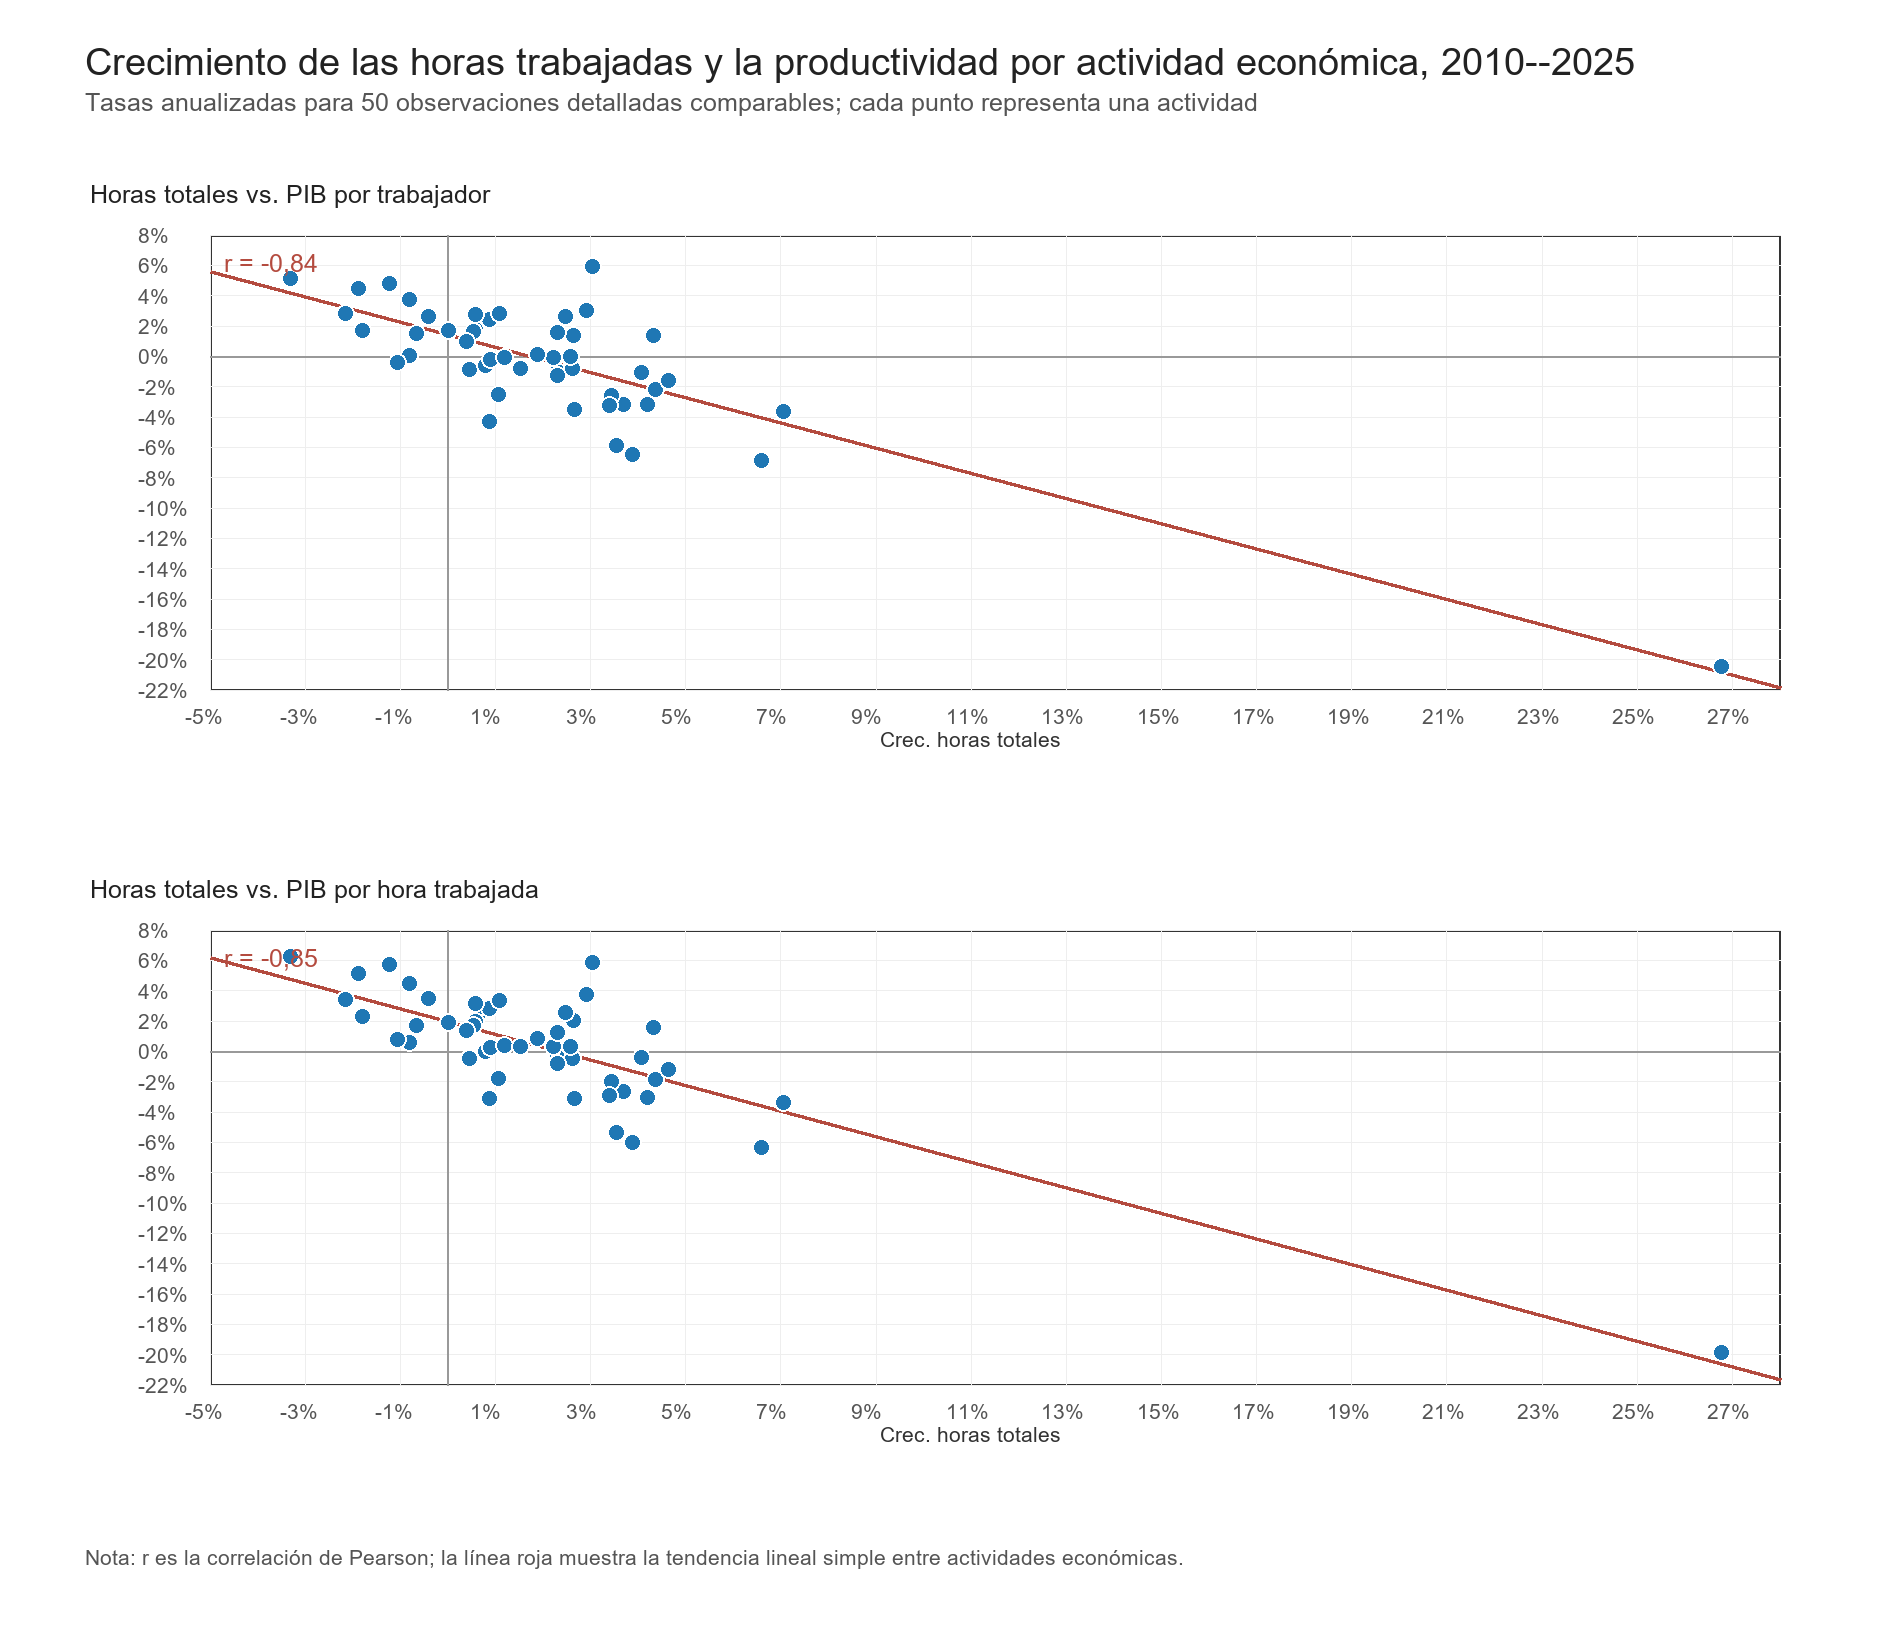
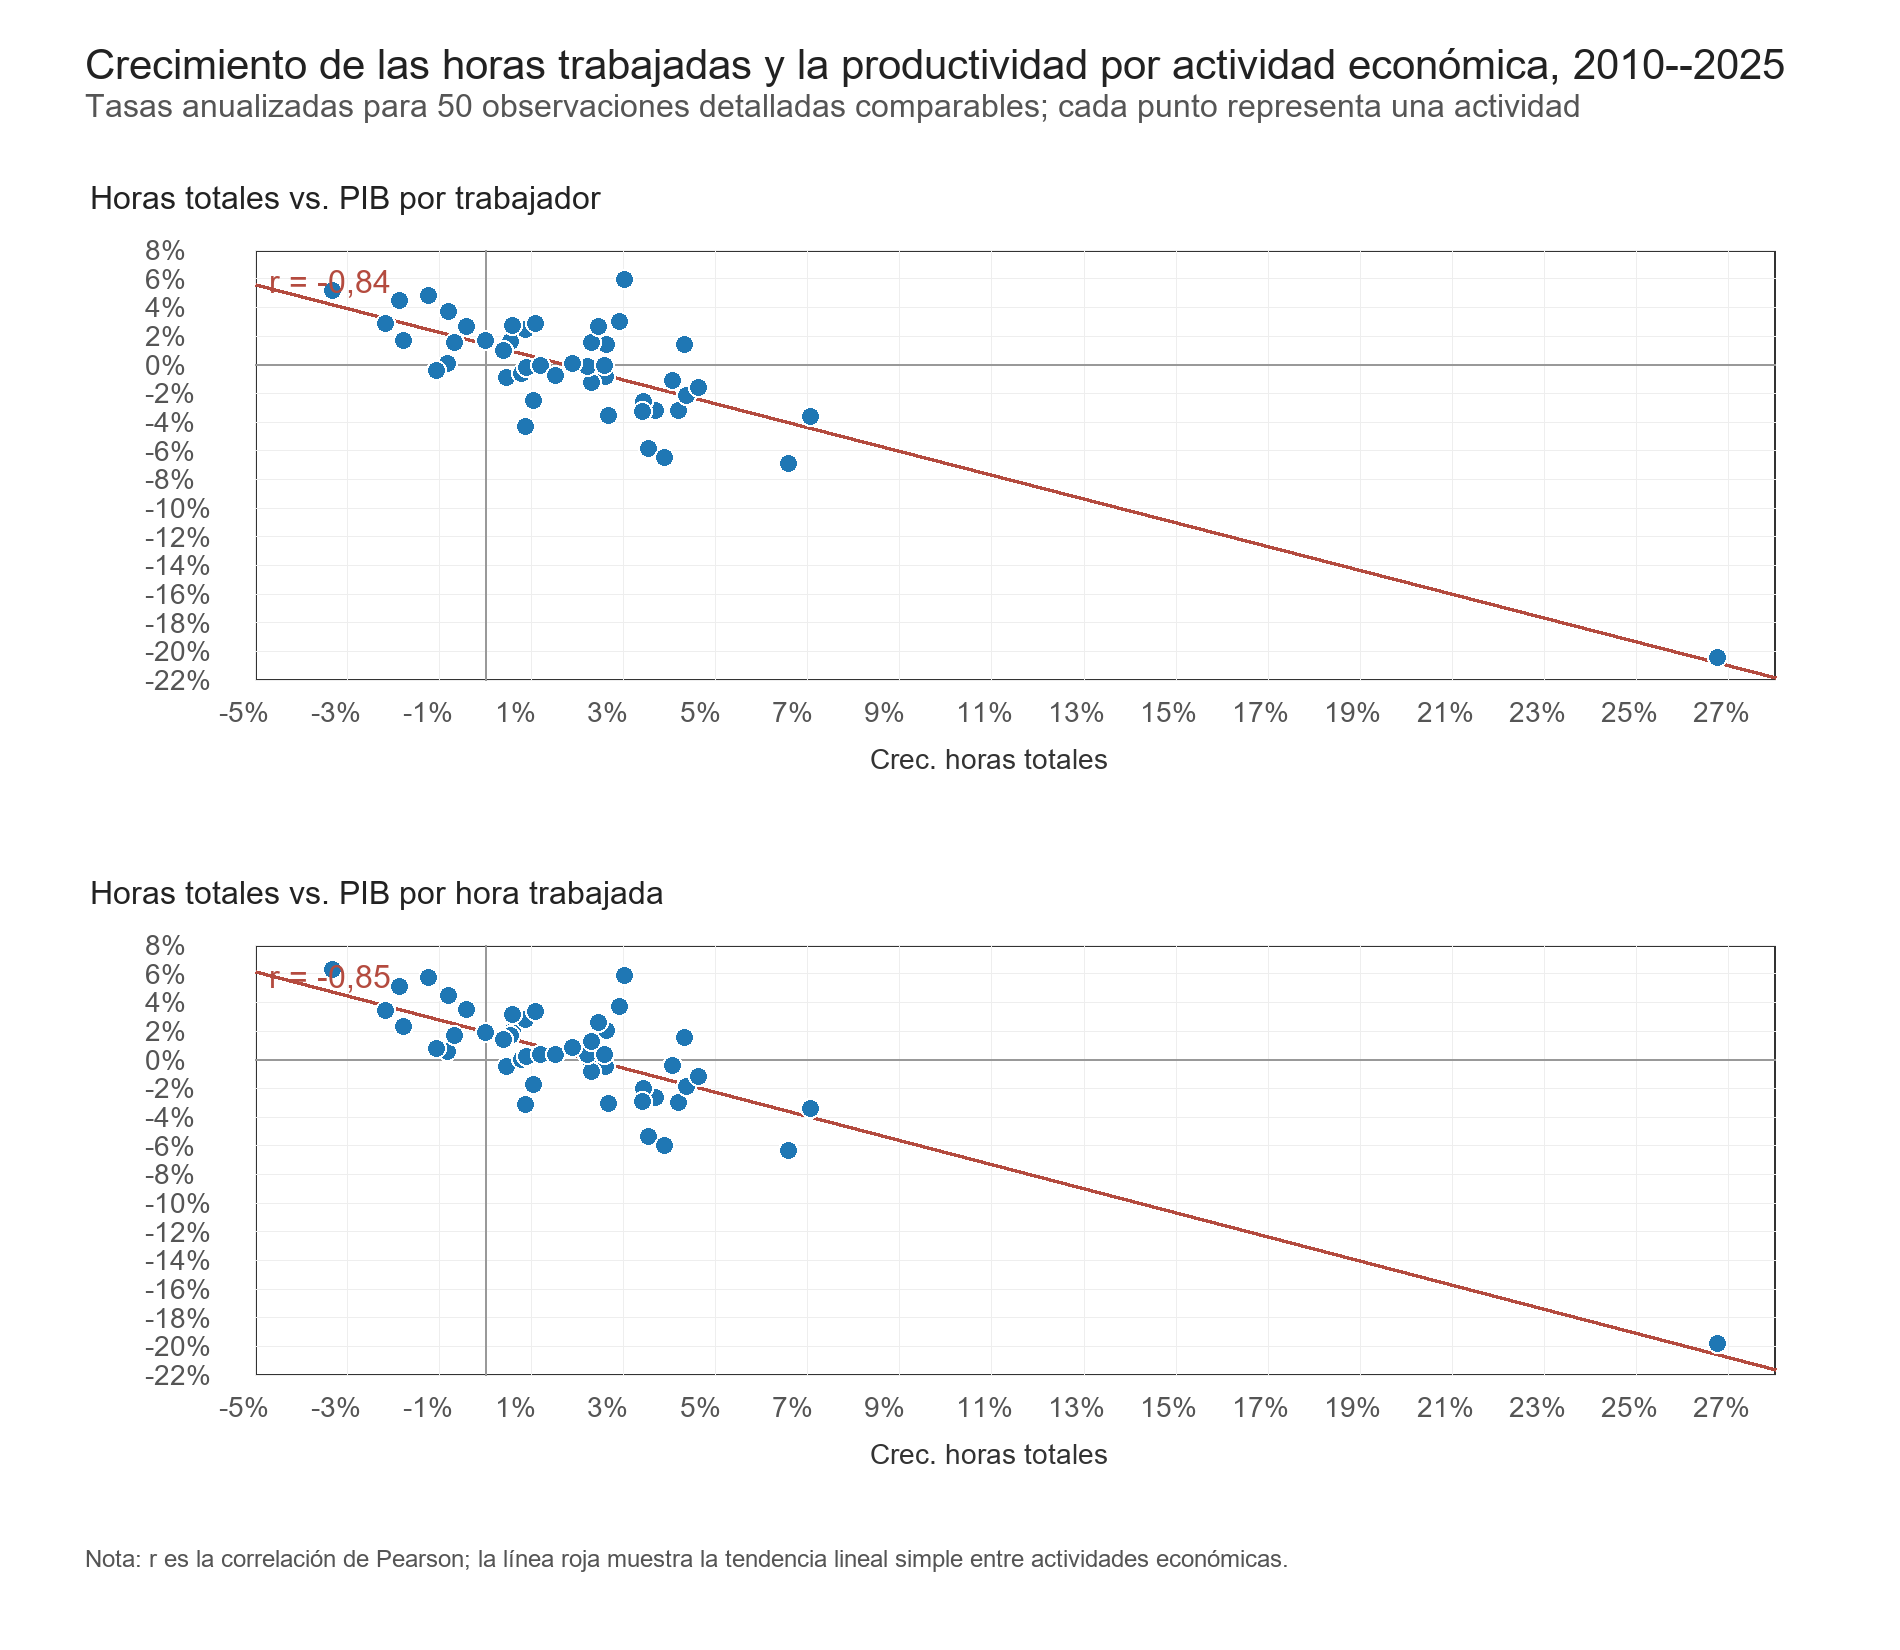
Increase scatter plot font sizes

diff --git a/Code/02.5_PIB_GEIH_Productividad.py b/Code/02.5_PIB_GEIH_Productividad.py
@@ -2987,9 +2987,10 @@ def draw_sector_correlation_scatter(summary: pd.DataFrame) -> None:
     )
 
     font = ImageFont.load_default()
-    title_font = ImageFont.truetype("arial.ttf", 38) if Path(r"C:\Windows\Fonts\arial.ttf").exists() else font
-    label_font = ImageFont.truetype("arial.ttf", 25) if Path(r"C:\Windows\Fonts\arial.ttf").exists() else font
-    small_font = ImageFont.truetype("arial.ttf", 21) if Path(r"C:\Windows\Fonts\arial.ttf").exists() else font
+    title_font = ImageFont.truetype("arial.ttf", 42) if Path(r"C:\Windows\Fonts\arial.ttf").exists() else font
+    label_font = ImageFont.truetype("arial.ttf", 32) if Path(r"C:\Windows\Fonts\arial.ttf").exists() else font
+    small_font = ImageFont.truetype("arial.ttf", 28) if Path(r"C:\Windows\Fonts\arial.ttf").exists() else font
+    note_font = ImageFont.truetype("arial.ttf", 24) if Path(r"C:\Windows\Fonts\arial.ttf").exists() else font
 
     y_min = math.floor(min(data["prod_trabajador"].min(), data["prod_hora"].min()) * 100) / 100 - 0.01
     y_max = math.ceil(max(data["prod_trabajador"].max(), data["prod_hora"].max()) * 100) / 100 + 0.01
@@ -3015,7 +3016,7 @@ def draw_sector_correlation_scatter(summary: pd.DataFrame) -> None:
             (85, 1545),
             "Nota: r es la correlación de Pearson; la línea roja muestra la tendencia lineal simple entre actividades económicas.",
             fill="#555555",
-            font=small_font,
+            font=note_font,
         )
 
         x_min = math.floor(data[x_col].min() * 100) / 100 - 0.01
@@ -3026,8 +3027,8 @@ def draw_sector_correlation_scatter(summary: pd.DataFrame) -> None:
         ]
 
         for left, top, right, bottom, y_col, y_lab in panels:
-            plot_left, plot_top = left + 120, top + 55
-            plot_right, plot_bottom = right - 55, bottom - 85
+            plot_left, plot_top = left + 165, top + 70
+            plot_right, plot_bottom = right - 60, bottom - 95
 
             draw.text((left, top), f"{x_lab} vs. {y_lab}", fill="#222222", font=label_font)
             draw.rectangle((plot_left, plot_top, plot_right, plot_bottom), outline="#333333", width=2)
@@ -3042,12 +3043,12 @@ def draw_sector_correlation_scatter(summary: pd.DataFrame) -> None:
                 value = tick / 100
                 x = x_pos(value)
                 draw.line((x, plot_top, x, plot_bottom), fill="#eeeeee", width=1)
-                draw.text((x - 25, plot_bottom + 14), pct_label(value), fill="#555555", font=small_font)
+                draw.text((x - 36, plot_bottom + 16), pct_label(value), fill="#555555", font=small_font)
             for tick in np.arange(math.ceil(y_min * 100), math.floor(y_max * 100) + 1, 2):
                 value = tick / 100
                 y = y_pos(value)
                 draw.line((plot_left, y, plot_right, y), fill="#eeeeee", width=1)
-                draw.text((plot_left - 72, y - 12), pct_label(value), fill="#555555", font=small_font)
+                draw.text((plot_left - 110, y - 16), pct_label(value), fill="#555555", font=small_font)
 
             if x_min < 0 < x_max:
                 x0 = x_pos(0)
@@ -3073,11 +3074,11 @@ def draw_sector_correlation_scatter(summary: pd.DataFrame) -> None:
             for _, row in data.iterrows():
                 x = x_pos(row[x_col])
                 y = y_pos(row[y_col])
-                draw.ellipse((x - 9, y - 9, x + 9, y + 9), fill="#1f77b4", outline="white", width=2)
+                draw.ellipse((x - 10, y - 10, x + 10, y + 10), fill="#1f77b4", outline="white", width=2)
 
             corr = data[[x_col, y_col]].corr().iloc[0, 1]
             draw.text((plot_left + 14, plot_top + 14), f"r = {corr_label(corr)}", fill="#b44b3f", font=label_font)
-            draw.text(((plot_left + plot_right) / 2 - 115, bottom - 48), f"Crec. {x_lab.lower()}", fill="#333333", font=small_font)
+            draw.text(((plot_left + plot_right) / 2 - 145, bottom - 32), f"Crec. {x_lab.lower()}", fill="#333333", font=small_font)
 
         for directory in [FIGURE_DIR, OUTPUT_FIGURE_DIR]:
             img.save(directory / filename)
@@ -3112,10 +3113,11 @@ def draw_initial_productivity_growth_scatter(summary: pd.DataFrame) -> None:
     img = Image.new("RGB", (1900, 1650), "white")
     draw = ImageDraw.Draw(img)
     font = ImageFont.load_default()
-    title_font = ImageFont.truetype("arial.ttf", 38) if Path(r"C:\Windows\Fonts\arial.ttf").exists() else font
-    label_font = ImageFont.truetype("arial.ttf", 25) if Path(r"C:\Windows\Fonts\arial.ttf").exists() else font
-    small_font = ImageFont.truetype("arial.ttf", 21) if Path(r"C:\Windows\Fonts\arial.ttf").exists() else font
-    tiny_font = ImageFont.truetype("arial.ttf", 17) if Path(r"C:\Windows\Fonts\arial.ttf").exists() else font
+    title_font = ImageFont.truetype("arial.ttf", 42) if Path(r"C:\Windows\Fonts\arial.ttf").exists() else font
+    label_font = ImageFont.truetype("arial.ttf", 32) if Path(r"C:\Windows\Fonts\arial.ttf").exists() else font
+    small_font = ImageFont.truetype("arial.ttf", 28) if Path(r"C:\Windows\Fonts\arial.ttf").exists() else font
+    tiny_font = ImageFont.truetype("arial.ttf", 22) if Path(r"C:\Windows\Fonts\arial.ttf").exists() else font
+    note_font = ImageFont.truetype("arial.ttf", 24) if Path(r"C:\Windows\Fonts\arial.ttf").exists() else font
 
     draw.text(
         (80, 40),
@@ -3163,8 +3165,8 @@ def draw_initial_productivity_growth_scatter(summary: pd.DataFrame) -> None:
         return f"{value:.2f}".replace(".", ",")
 
     for left, top, right, bottom, x_col, y_col, title, x_label in panels:
-        plot_left, plot_top = left + 120, top + 55
-        plot_right, plot_bottom = right - 55, bottom - 85
+        plot_left, plot_top = left + 165, top + 70
+        plot_right, plot_bottom = right - 60, bottom - 95
         values_x = data[x_col].astype(float).to_numpy()
         values_y = data[y_col].astype(float).to_numpy()
         log_x = np.log10(values_x)
@@ -3184,12 +3186,12 @@ def draw_initial_productivity_growth_scatter(summary: pd.DataFrame) -> None:
             if values_x.min() <= tick <= values_x.max():
                 x = x_pos(tick)
                 draw.line((x, plot_top, x, plot_bottom), fill="#eeeeee", width=1)
-                draw.text((x - 25, plot_bottom + 14), f"{tick}", fill="#555555", font=small_font)
+                draw.text((x - 36, plot_bottom + 16), f"{tick}", fill="#555555", font=small_font)
         for tick in np.arange(math.ceil(y_min * 100), math.floor(y_max * 100) + 1, 2):
             value = tick / 100
             y = y_pos(value)
             draw.line((plot_left, y, plot_right, y), fill="#eeeeee", width=1)
-            draw.text((plot_left - 72, y - 12), pct_label(value), fill="#555555", font=small_font)
+            draw.text((plot_left - 110, y - 16), pct_label(value), fill="#555555", font=small_font)
 
         if y_min < 0 < y_max:
             y0 = y_pos(0)
@@ -3206,7 +3208,7 @@ def draw_initial_productivity_growth_scatter(summary: pd.DataFrame) -> None:
         for _, row in data.iterrows():
             x = x_pos(row[x_col])
             y = y_pos(row[y_col])
-            draw.ellipse((x - 8, y - 8, x + 8, y + 8), fill="#1f77b4", outline="white", width=2)
+            draw.ellipse((x - 10, y - 10, x + 10, y + 10), fill="#1f77b4", outline="white", width=2)
 
         labels = pd.concat(
             [
@@ -3221,18 +3223,18 @@ def draw_initial_productivity_growth_scatter(summary: pd.DataFrame) -> None:
             text = str(row["actividad_corta"])
             if len(text) > 22:
                 text = text[:21] + "."
-            text_x = x + 10 if x < plot_right - 230 else x - 210
+            text_x = x + 12 if x < plot_right - 280 else x - 260
             draw.text((max(plot_left + 8, text_x), y - 10), text, fill="#333333", font=tiny_font)
 
         corr = np.corrcoef(log_x, values_y)[0, 1]
         draw.text((plot_left + 12, plot_top + 12), f"r = {fmt_corr(corr)}", fill="#b44b3f", font=label_font)
-        draw.text(((plot_left + plot_right) / 2 - 190, bottom - 48), x_label, fill="#333333", font=small_font)
+        draw.text(((plot_left + plot_right) / 2 - 230, bottom - 32), x_label, fill="#333333", font=small_font)
 
     draw.text(
         (85, 1545),
         "Nota: r es la correlación de Pearson entre el crecimiento anualizado y el logaritmo del nivel de productividad en 2010; la línea roja muestra la tendencia lineal.",
         fill="#555555",
-        font=small_font,
+        font=note_font,
     )
 
     for directory in [FIGURE_DIR, OUTPUT_FIGURE_DIR]:
